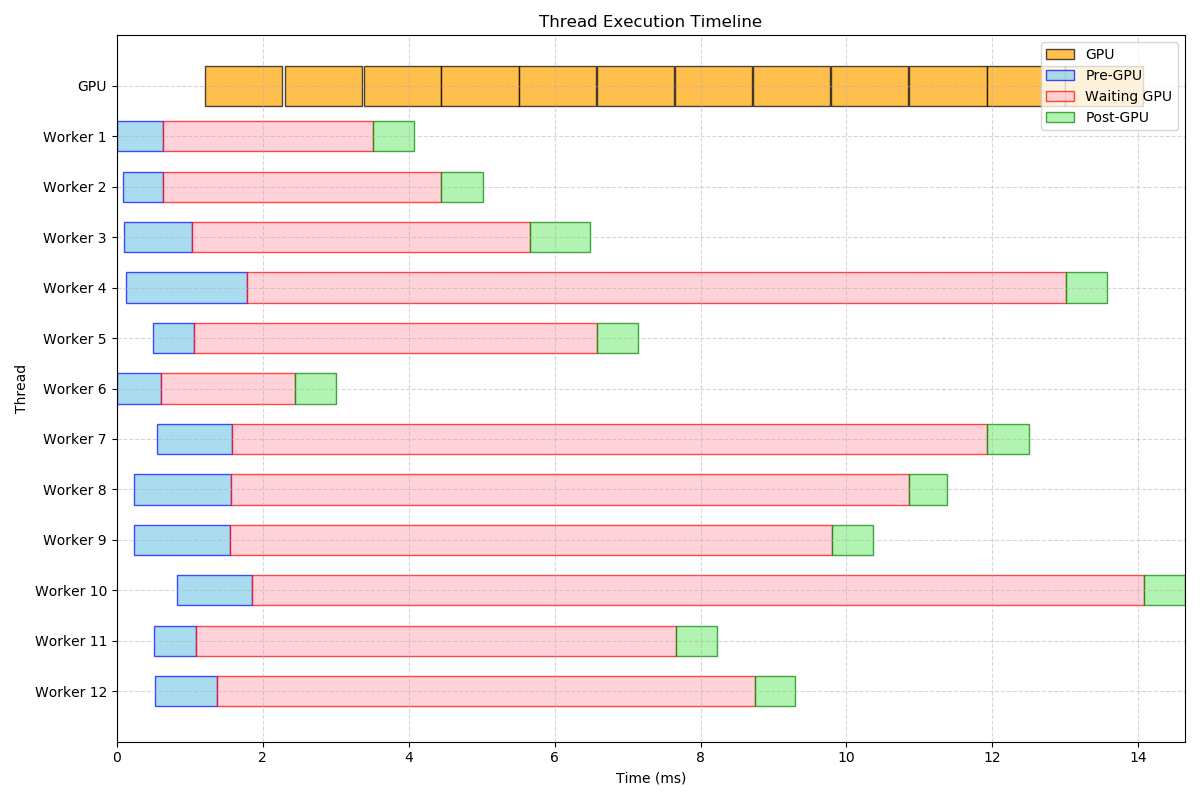
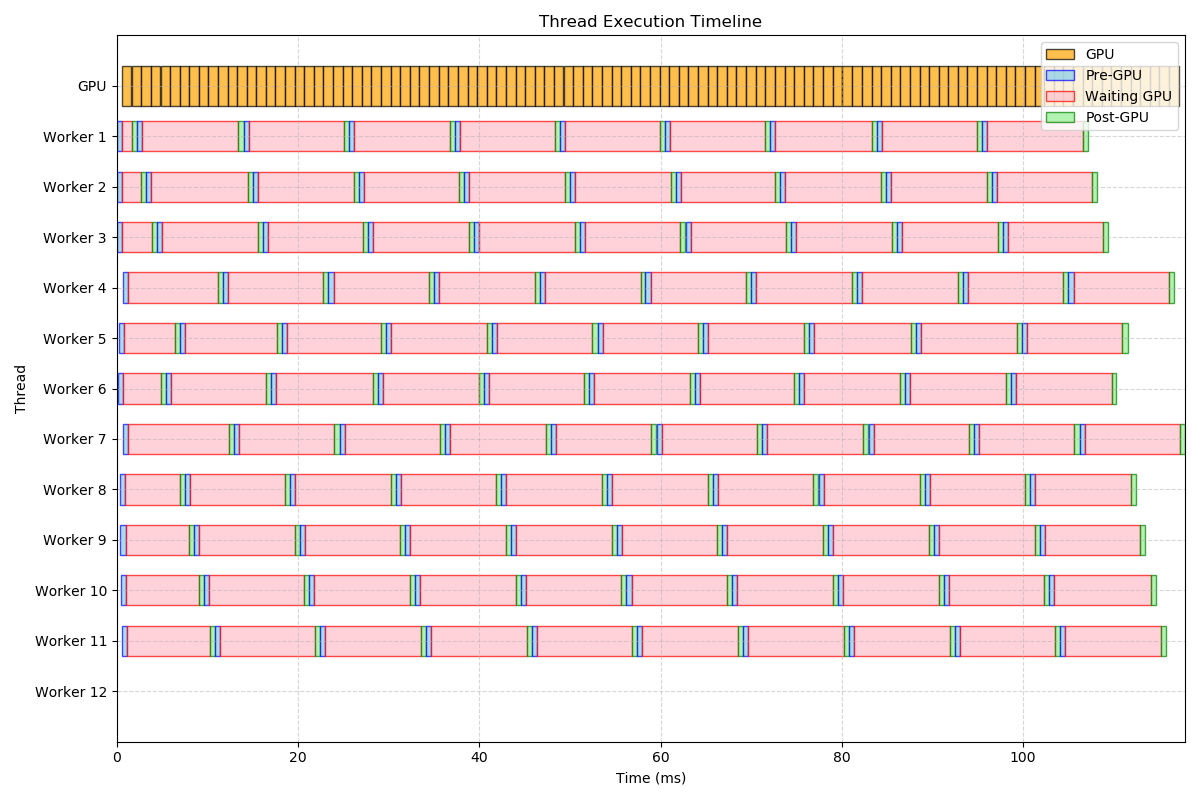
Affinity 할당을 main문에서 진행

diff --git a/gpu_dedicated_arch.c b/gpu_dedicated_arch.c
@@ -5,9 +5,11 @@
 #include <stdio.h>
 #include <stdlib.h>
 #include <time.h>
+#include <unistd.h>
 
 #define MAX_QUEUE_SIZE 128
-#define NUM_WORKERS 12
+#define TASKS_PER_WORKER 10
+#define VISUAL 0
 
 pthread_mutex_t task_mutex = PTHREAD_MUTEX_INITIALIZER;
 pthread_cond_t task_cond = PTHREAD_COND_INITIALIZER;
@@ -36,6 +38,7 @@ typedef struct {
 
 gpu_task_t task_queue[MAX_QUEUE_SIZE];
 int task_head = 0, task_tail = 0;
+int available_cores;
 
 double current_time_in_ms() {
     struct timespec ts;
@@ -43,21 +46,18 @@ double current_time_in_ms() {
     return ts.tv_sec * 1000.0 + ts.tv_nsec / 1e6;
 }
 
-// GPU 작업 로그
 void log_gpu_task(gpu_task_t task, int thread_id) {
     pthread_mutex_lock(&file_mutex);
     fprintf(fp_gpu, "%d,%.2f,%.2f,%.2f\n", thread_id, task.request_time, task.gpu_start_time, task.gpu_end_time);
     pthread_mutex_unlock(&file_mutex);
 }
 
-// Worker 작업 로그
 void log_worker_task(gpu_task_t task, int thread_id) {
     pthread_mutex_lock(&file_mutex);
     fprintf(fp_worker, "%d,%.2f,%.2f,%.2f,%.2f\n", thread_id, task.worker_start_time, task.worker_request_time, task.worker_receive_time, task.worker_end_time);
     pthread_mutex_unlock(&file_mutex);
 }
 
-// GPU 전담 스레드 (Core 0)
 void* gpu_dedicated_thread(void* arg) {
     cpu_set_t cpuset;
     CPU_ZERO(&cpuset);
@@ -67,7 +67,6 @@ void* gpu_dedicated_thread(void* arg) {
     gpu_task_t current_task;
 
     while (1) {
-        // 작업 대기열에서 작업 수신
         pthread_mutex_lock(&task_mutex);
         while (task_head == task_tail)
             pthread_cond_wait(&task_cond, &task_mutex);
@@ -76,13 +75,13 @@ void* gpu_dedicated_thread(void* arg) {
         task_head++;
         pthread_mutex_unlock(&task_mutex);
 
-        printf("GPU Thread: Received task %d\n", current_task.task_id);
+        if (VISUAL) printf("GPU Thread: Received task %d\n", current_task.task_id);
 
         current_task.gpu_start_time = current_time_in_ms();
-        printf("GPU Thread: Start GPU task %d\n", current_task.task_id);
-        usleep(1000); // GPU 작업 모의
+        if (VISUAL) printf("GPU Thread: Start GPU task %d\n", current_task.task_id);
+        usleep(1000);
         current_task.gpu_end_time = current_time_in_ms();
-        printf("GPU Thread: End GPU task %d\n", current_task.task_id);
+        if (VISUAL) printf("GPU Thread: End GPU task %d\n", current_task.task_id);
 
         pthread_mutex_lock(&result_mutex[current_task.task_id]);
         current_task.completed = 1;
@@ -94,61 +93,64 @@ void* gpu_dedicated_thread(void* arg) {
     }
 }
 
-// Worker 스레드 (Core 1~12)
 void* worker_thread(void* arg) {
     int thread_id = *(int*)arg;
+    int core_id = sched_getcpu();
+    printf("Worker %d bound to core %d\n", thread_id, core_id);
 
-    cpu_set_t cpuset;
-    CPU_ZERO(&cpuset);
-    CPU_SET(thread_id, &cpuset);
-    pthread_setaffinity_np(pthread_self(), sizeof(cpuset), &cpuset);
 
-    gpu_task_t task;
-    task.input_size = 1024;
-    task.input = malloc(sizeof(float) * task.input_size);
-    task.output = malloc(sizeof(float) * task.input_size);
-    task.completed = 0;
+    for (int i = 0; i < TASKS_PER_WORKER; i++) {
+        gpu_task_t task;
+        task.input_size = 1024;
+        task.input = malloc(sizeof(float) * task.input_size);
+        task.output = malloc(sizeof(float) * task.input_size);
+        task.completed = 0;
 
-    pthread_mutex_init(&result_mutex[thread_id], NULL);
-    pthread_cond_init(&result_cond[thread_id], NULL);
+        task.worker_start_time = current_time_in_ms();
+        if (VISUAL) printf("Worker %d: Start preprocessing (task %d)\n", thread_id, i);
+        usleep(500);
 
-    task.worker_start_time = current_time_in_ms();
-    printf("Worker %d: Start preprocessing\n", thread_id);
-    usleep(500);
+        pthread_mutex_lock(&task_mutex);
+        task.task_id = task_tail;
+        task.request_time = current_time_in_ms();
+        task.worker_request_time = task.request_time;
+        task_queue[task_tail % MAX_QUEUE_SIZE] = task;
+        task_tail++;
+        pthread_cond_signal(&task_cond);
+        pthread_mutex_unlock(&task_mutex);
 
-    pthread_mutex_lock(&task_mutex);
-    task.task_id = task_tail;
-    task.request_time = current_time_in_ms();
-    task.worker_request_time = task.request_time;
-    task_queue[task_tail % MAX_QUEUE_SIZE] = task;
-    task_tail++;
-    pthread_cond_signal(&task_cond);
-    pthread_mutex_unlock(&task_mutex);
+        if (VISUAL) printf("Worker %d: Requested GPU task (task %d)\n", thread_id, i);
 
-    printf("Worker %d: Requested GPU task\n", thread_id);
+        pthread_mutex_lock(&result_mutex[task.task_id]);
+        while (!task_queue[task.task_id].completed)
+            pthread_cond_wait(&result_cond[task.task_id], &result_mutex[task.task_id]);
+        pthread_mutex_unlock(&result_mutex[task.task_id]);
 
-    pthread_mutex_lock(&result_mutex[task.task_id]);
-    while (!task_queue[task.task_id].completed)
-        pthread_cond_wait(&result_cond[task.task_id], &result_mutex[task.task_id]);
-    pthread_mutex_unlock(&result_mutex[task.task_id]);
+        task.worker_receive_time = current_time_in_ms();
+        if (VISUAL) printf("Worker %d: Received GPU result (task %d)\n", thread_id, i);
 
-    task.worker_receive_time = current_time_in_ms();
-    printf("Worker %d: Received GPU result\n", thread_id);
+        usleep(500);
+        task.worker_end_time = current_time_in_ms();
+        if (VISUAL) printf("Worker %d: Finished postprocessing (task %d)\n", thread_id, i);
 
-    usleep(500);
-    task.worker_end_time = current_time_in_ms();
-    printf("Worker %d: Finished postprocessing\n", thread_id);
+        log_worker_task(task, thread_id);
 
-    log_worker_task(task, thread_id);
+        free(task.input);
+        free(task.output);
 
-    free(task.input);
-    free(task.output);
+        if (VISUAL) printf("Worker %d: Completed task %d\n", thread_id, i);
+    }
+
     pthread_exit(NULL);
 }
 
 int main() {
-    pthread_t gpu_thread, workers[NUM_WORKERS];
-    int thread_ids[NUM_WORKERS];
+    available_cores = sysconf(_SC_NPROCESSORS_ONLN);
+    int num_workers = available_cores - 1; // GPU 스레드용 코어 1개 제외
+
+
+    pthread_t gpu_thread, workers[num_workers];
+    int thread_ids[num_workers];
 
     fp_gpu = fopen("gpu_task_log.csv", "w");
     fprintf(fp_gpu, "thread_id,request_time,gpu_start_time,gpu_end_time\n");
@@ -158,12 +160,19 @@ int main() {
 
     pthread_create(&gpu_thread, NULL, gpu_dedicated_thread, NULL);
 
-    for (int i = 0; i < NUM_WORKERS; i++) {
+    for (int i = 0; i < num_workers; i++) {
         thread_ids[i] = i + 1;
         pthread_create(&workers[i], NULL, worker_thread, &thread_ids[i]);
+        cpu_set_t cpuset;
+        CPU_ZERO(&cpuset);
+        // 코어 0은 GPU 스레드용으로 예약
+        // 1부터 available_cores까지 사용
+        int core_id = 1 + (i % (available_cores - 1));
+        CPU_SET(core_id, &cpuset);
+        pthread_setaffinity_np(workers[i], sizeof(cpuset), &cpuset);
     }
 
-    for (int i = 0; i < NUM_WORKERS; i++) {
+    for (int i = 0; i < num_workers; i++) {
         pthread_join(workers[i], NULL);
     }
 
